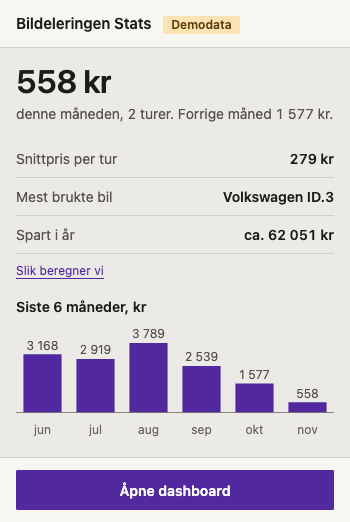
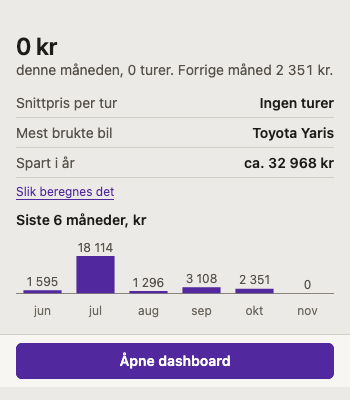
Skjermbilder av hver seksjon i README, og hjørnene går til 6 px
skjermbilder.sh tar nå hele seksjonen når høyden er 0 og adressen har et
anker. Formreglene står i docs/design.md og ikke i AGENTS.md.

diff --git a/stats/lib/tokens.css b/stats/lib/tokens.css
@@ -64,7 +64,7 @@
   --space-7: 48px;
   --space-8: 64px;
 
-  --radius: 2px;
+  --radius: 6px;
 }
 
 @media (max-width: 720px) {

diff --git a/README.md b/README.md
@@ -20,24 +20,47 @@ Nettleserutvidelse som viser hva Bildeleringen koster deg og hvordan du bruker d
 
 ## Slik ser det ut
 
-<picture>
-  <source media="(prefers-color-scheme: dark)" srcset="skjermbilder/dashboard-kostnader-mork.png">
-  <img src="skjermbilder/dashboard-kostnader-lys.png" alt="Dashboardet med kostnader per måned og nøkkeltall" width="1280">
-</picture>
+Bildene viser ekte bruk, unntatt Turkategorier og Transport, som viser demodata.
 
-<picture>
-  <source media="(prefers-color-scheme: dark)" srcset="skjermbilder/dashboard-bruksmonster-mork.png">
-  <img src="skjermbilder/dashboard-bruksmonster-lys.png" alt="Bruksmønster med turer per ukedag og klokkeslett" width="1280">
-</picture>
+### Popup
 
-<picture>
-  <source media="(prefers-color-scheme: dark)" srcset="skjermbilder/popup-mork.png">
-  <img src="skjermbilder/popup-lys.png" alt="Popupen med forbruket denne måneden" width="350">
-</picture>
+![Popupen med forbruket denne måneden og de siste seks månedene](skjermbilder/popup-mork.png)
 
-<img src="skjermbilder/summary-brukt-mork.png" alt="Årsoppsummeringen: brukt på bildeling i året, med antall turer" width="640">
+### Dashboard
 
-<img src="skjermbilder/summary-spart-mork.png" alt="Årsoppsummeringen: spart mot å eie bil, regnet mot en bilkategori" width="640">
+![Kostnader per måned og per år](skjermbilder/seksjon-kostnader.png)
+
+![Bruksmønster: turer per ukedag og klokkeslett, og mest brukte biler](skjermbilder/seksjon-bruksmonster.png)
+
+![Bookingmønster: hvor lang tid i forveien, og mest brukte stasjoner](skjermbilder/seksjon-bookingmonster.png)
+
+![Kilometer per måned og per bil](skjermbilder/seksjon-kilometer.png)
+
+![Trender: år mot år, glidende snitt og sesong](skjermbilder/seksjon-trender.png)
+
+![Bilregnestykket: bildeling mot å eie en Volvo EX40](skjermbilder/seksjon-bilregnestykket.png)
+
+![Turkategorier med forslag fra turnotatene](skjermbilder/seksjon-turkategorier.png)
+
+![Klimaregnskap: CO₂ per måned og per drivstofftype](skjermbilder/seksjon-klima.png)
+
+![Min transport: bildeling sammen med taxi, buss og fly](skjermbilder/seksjon-transport.png)
+
+![Sikkerhetskopi: eksport og import](skjermbilder/seksjon-sikkerhetskopi.png)
+
+### Årsoppsummering
+
+![Brukt på bildeling i året](skjermbilder/oppsummering-brukt.png)
+
+![Kilometer kjørt i året](skjermbilder/oppsummering-kjort.png)
+
+![Favorittbilen i året](skjermbilder/oppsummering-favorittbil.png)
+
+![Den travleste måneden](skjermbilder/oppsummering-travleste.png)
+
+![Spart mot å eie bil](skjermbilder/oppsummering-spart.png)
+
+![CO₂-utslipp i året](skjermbilder/oppsummering-co2.png)
 
 ## Installasjon
 

diff --git a/AGENTS.md b/AGENTS.md
@@ -25,7 +25,7 @@ Repoet har to selvstendige utvidelser: `stats/` (statistikk) og `flex/` (fleksib
 ## UI
 
 - Alle farger via CSS custom properties i `:root`, ingen hex eller rgb utenfor. Maks fem chart-farger (`--color-chart-1` til `-5`).
-- I stats står alle farger og størrelser én gang i `stats/lib/tokens.css`, fargene som `light-dark(lys, mørk)`. Ett hjørne (`var(--radius)`, 2 px), 1 px linjer, ingen skygger, ingen `!important`. `stats/scripts/sjekk-stil.sh` og `kontrast.sh` håndhever det. Diagramfarger hentes med `resolveColor()` i `lib/chart-helpers.js`, ikke med `getPropertyValue()`.
+- I stats står alle farger og størrelser én gang i `stats/lib/tokens.css`, fargene som `light-dark(lys, mørk)`. Formreglene står i `docs/design.md`, og `stats/scripts/sjekk-stil.sh` og `kontrast.sh` håndhever det. Diagramfarger hentes med `resolveColor()` i `lib/chart-helpers.js`, ikke med `getPropertyValue()`.
 - Lys og mørk modus må virke (`prefers-color-scheme`). Nye variabler trenger mørk variant.
 - Norsk UI-tekst. Console-logging kan være engelsk.
 - Estimater (eierkostnad, CO₂) får «Slik beregnes det» med kilder og «ca.» eller «~» foran tallet.

diff --git a/docs/design.md b/docs/design.md
@@ -145,7 +145,7 @@ Bare to vekter: 400 og 600. Tall i lister og regnestykker står i 600. Hovedtall
 
 Avstandsskala på 4 px: `--space-1` 4, `--space-2` 8, `--space-3` 12, `--space-4` 16, `--space-5` 24, `--space-6` 32, `--space-7` 48, `--space-8` 64. Seksjoner har 48 px luft over og under og en 1 px border mellom seg. Innhold i paneler har 16 px vertikalt og 24 px horisontalt.
 
-Ett hjørne: `--radius: 2px` overalt, også i popup og årsoppsummering. Det matcher flex-utvidelsen. Ingen skygger noe sted. Paneler skilles fra flaten med 1 px `--color-border`. Kontroller som skal kunne ses som kontroller, har 1 px `--color-border-strong`.
+Ett hjørne: `--radius: 6px` overalt, også i popup og årsoppsummering, som Firefox sine egne paneler. Ingen skygger noe sted. Paneler skilles fra flaten med 1 px `--color-border`. Kontroller som skal kunne ses som kontroller, har 1 px `--color-border-strong`.
 
 Innhold er venstrejustert. Tall i tabeller og nøkkeltall-lister er høyrejustert. Ingenting sentreres, unntatt i årsoppsummeringen, der hver slide er én påstand midt på skjermen.
 
